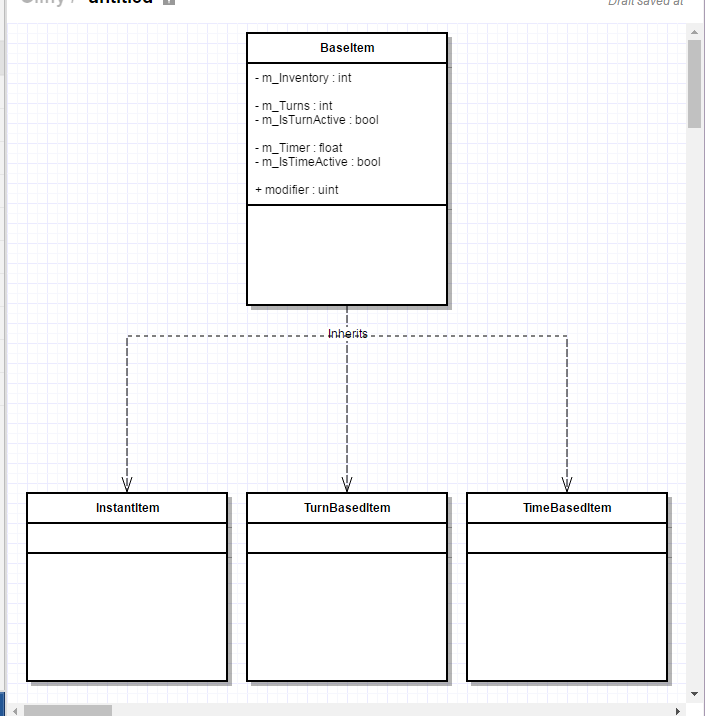
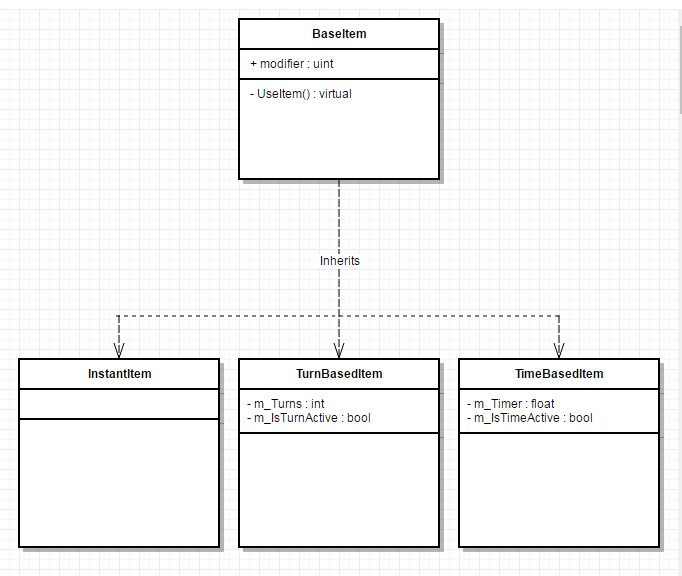
BaseItem Script and Documentation Update Commit
Updated base item script and documentation. Also added ui mockup from
morning meeting on 3/13/2017.

diff --git a/Assets/Scripts/BaseItem.cs b/Assets/Scripts/BaseItem.cs
@@ -13,15 +13,12 @@ using UnityEngine;
 [Serializable]
 public class BaseItem
 {
-    private int m_Inventory; //item container.
-
-    private int m_Turns; //will determine how long effect will last based on turns.
-    private bool m_IsTurnActive = false; //starts false, becomes true when active.
-
-    private float m_Timer; //will determine how long effect will last based on time.
-    private bool m_IsTimeActive = false; //starts false, becomes true when active.
-
     public uint modifier; //value that will "modifier" player attribute(s).
+
+    protected virtual void UseItem() //use item function. TODO - define what function needs and return type
+    {
+        
+    }
 }
 
 [Serializable]
@@ -33,11 +30,13 @@ public class InstantBased : BaseItem
 [Serializable]
 public class TurnBased : BaseItem
 {
-    
+    private int m_Turns; //will determine how long effect will last based on turns.
+    private bool m_IsTurnActive = false; //starts false, becomes true when active.
 }
 
 [Serializable]
 public class TimeBased : BaseItem
 {
-
+    private float m_Timer; //will determine how long effect will last based on time.
+    private bool m_IsTimeActive = false; //starts false, becomes true when active.
 }
